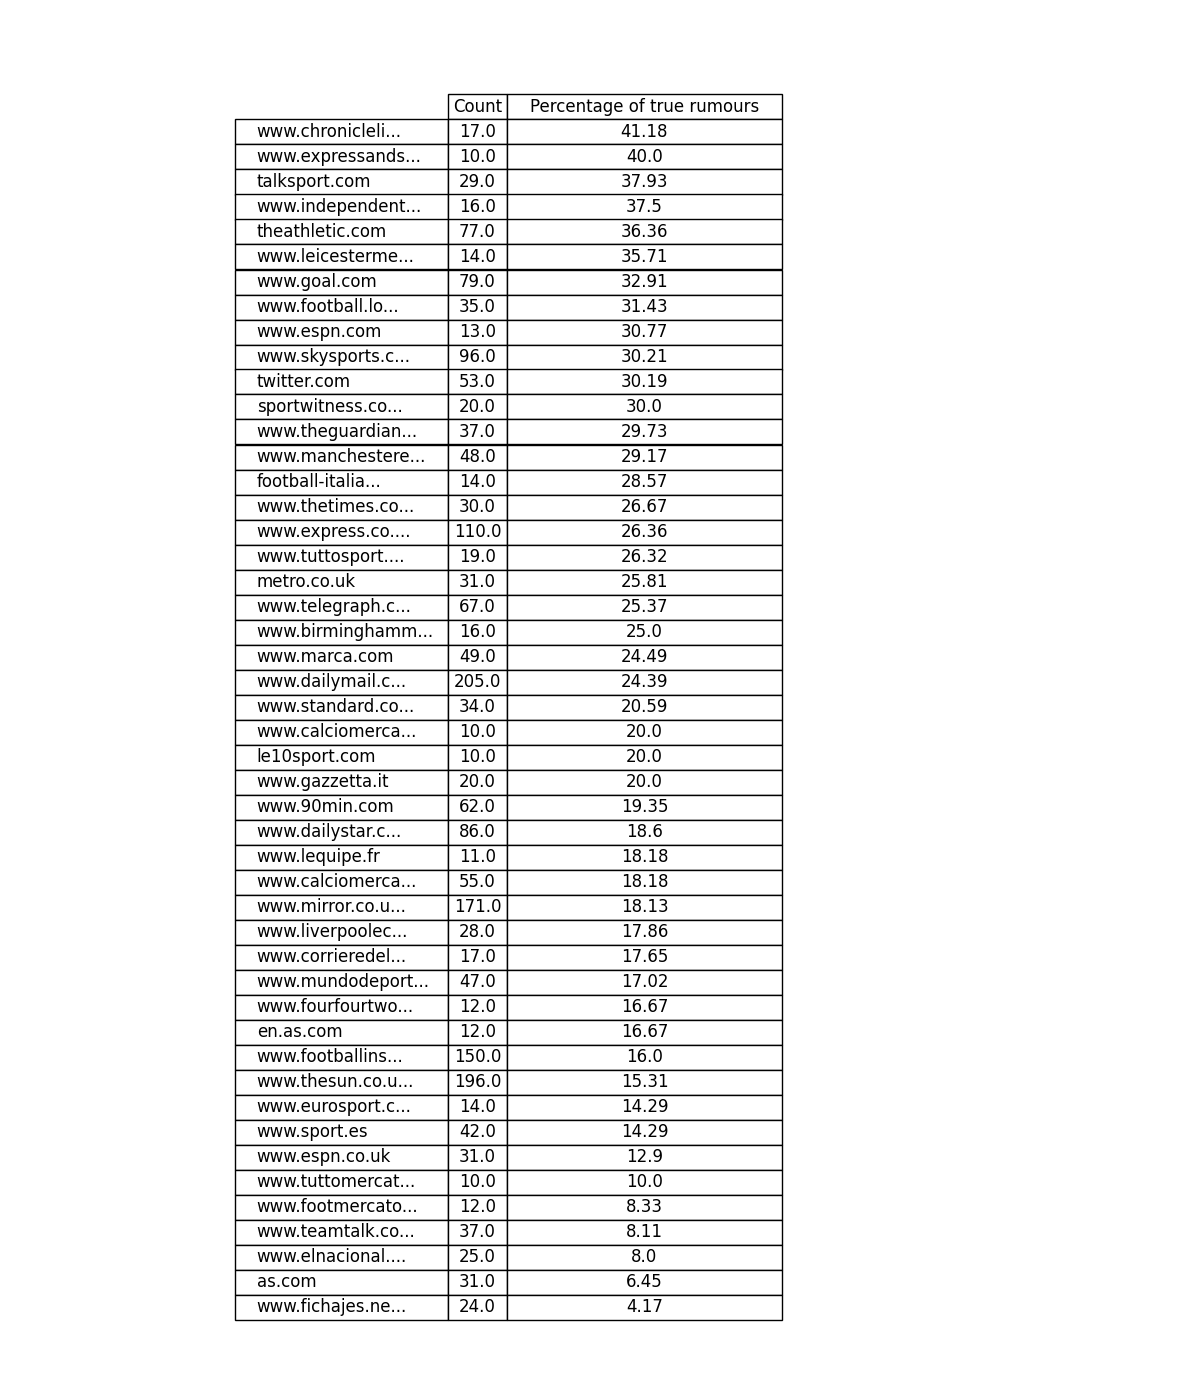
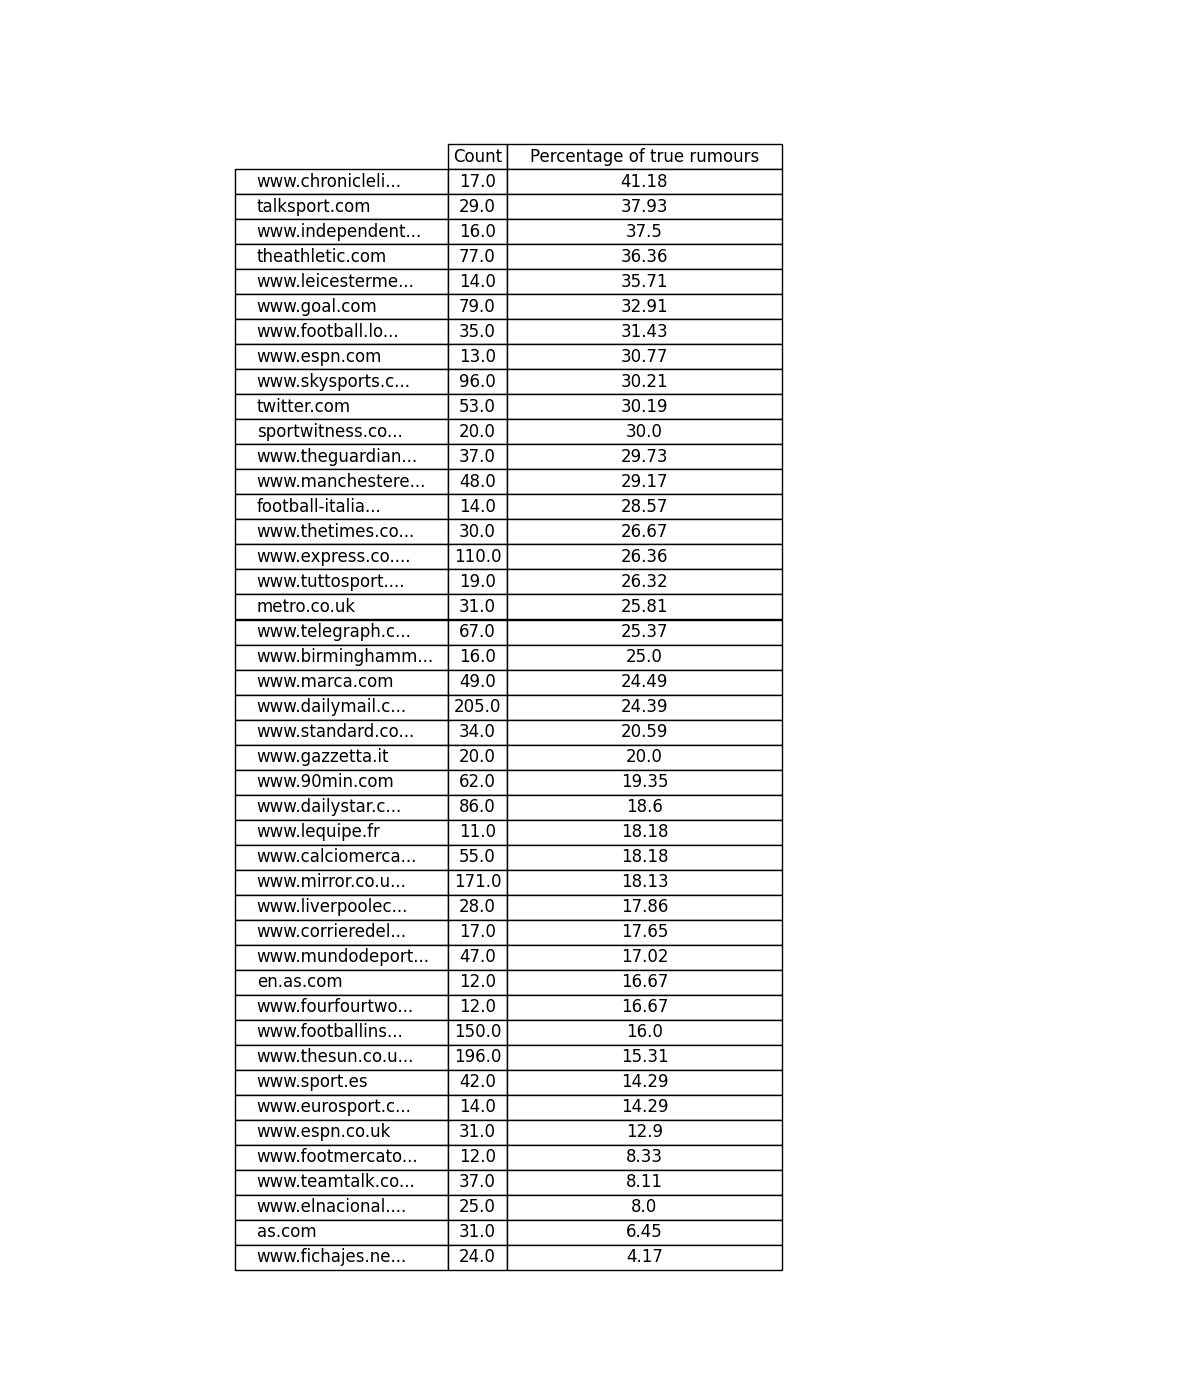
Final commits before running final checks

diff --git a/src/visualization_and_analysis.py b/src/visualization_and_analysis.py
@@ -20,7 +20,7 @@ def preprocess_for_visulization(data, x_col, y_col):
     return data
 
 def plot_boxplot_figure(data, x_col, y_col, title, save_path):
-    plt.figure(figsize=FIGSIZE)
+    plt.figure(figsize=(8, 8))
     sns.boxplot(data=data, x=y_col, y=x_col)
     plt.title(title)
     plt.xlabel(y_col)
@@ -75,7 +75,7 @@ def create_true_rumour_summary_table(data, x_col, y_col):
     true_rumour_counts = data.groupby(x_col)[y_col].sum()
     total_counts = data[x_col].value_counts()
     proportion_true_rumours = (true_rumour_counts / total_counts)
-    filtered_proportions = proportion_true_rumours[(proportion_true_rumours > 0) & (total_counts >= CATEGORICAL_RESULTS_TO_SHOW)]
+    filtered_proportions = proportion_true_rumours[(proportion_true_rumours > 0) & (total_counts > CATEGORICAL_RESULTS_TO_SHOW)]
     sorted_proportions = filtered_proportions.sort_values(ascending=False)
     percentage_true_rumours = (filtered_proportions * 100).round(2)
     summary = pd.concat([total_counts, percentage_true_rumours], axis=1)
@@ -94,7 +94,7 @@ def plot_bar_chart(sorted_proportions, title, save_path):
     ax1.set_ylabel('Percentage of true rumours')
     ax1.set_xticklabels([shorten_label(label.get_text()) for label in ax1.get_xticklabels()])
     plt.setp(ax1.get_xticklabels(), rotation=45, ha="right", rotation_mode="anchor", fontsize=12)
-    ax1.yaxis.set_major_formatter(plt.FuncFormatter(lambda x, _: f'{x:.2f}%'))
+    ax1.yaxis.set_major_formatter(plt.FuncFormatter(lambda x, _: f'{(x*100).round(2)}%'))
     plt.savefig(save_path)
     plt.close()
 
